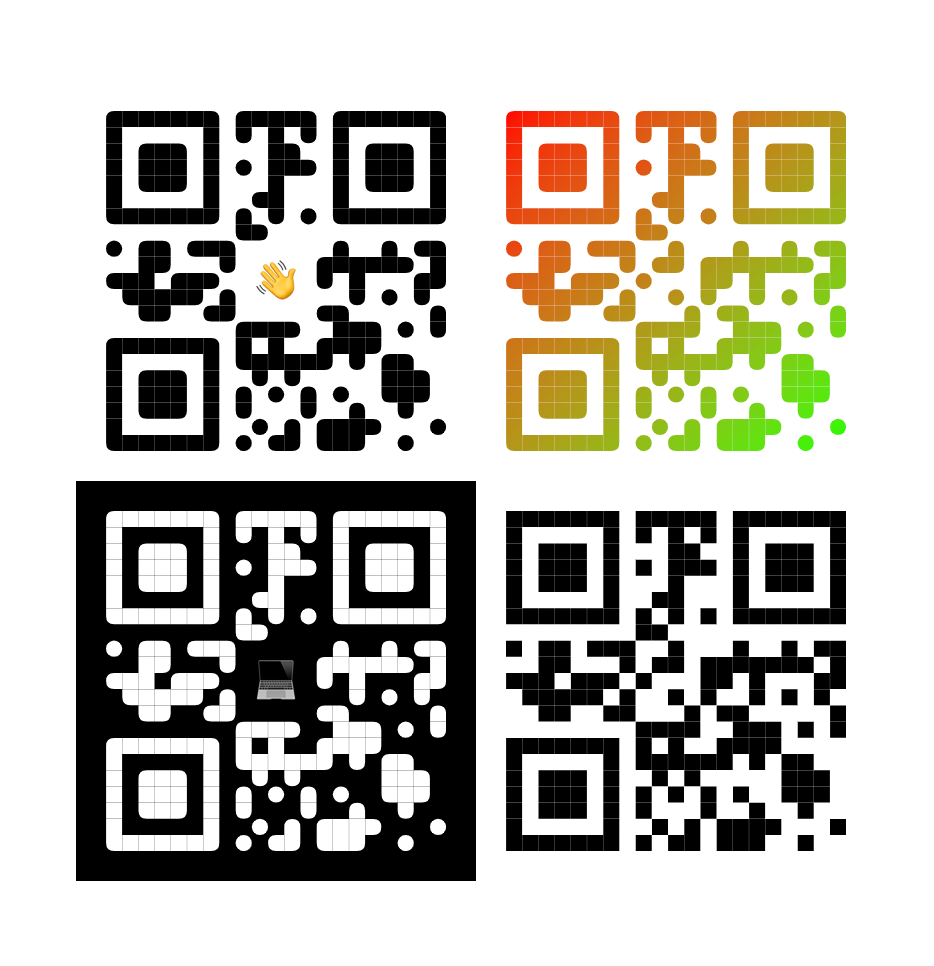
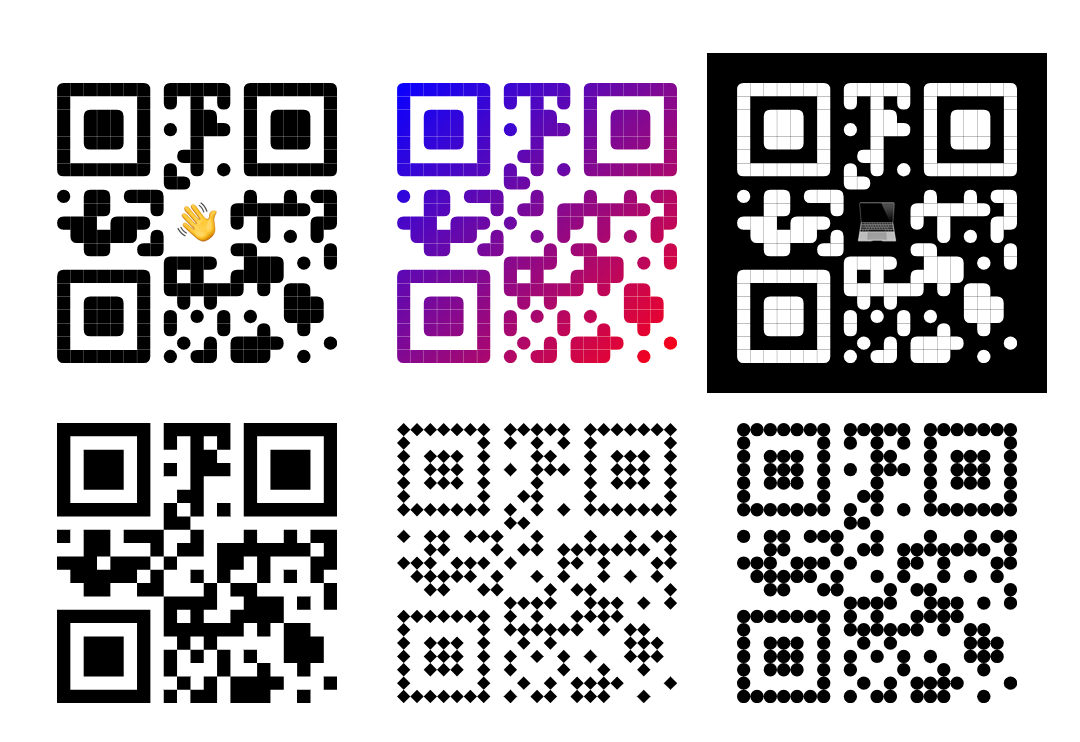
docs: update README.md

diff --git a/README.md b/README.md
@@ -47,11 +47,15 @@ This library allows for easy customization of QR codes, enabling developers to a
 
 Implement QR codes easily in your React Native app:
 
+[Full example use can find here.](./example/src/App.tsx)
 ```js
 import React from 'react';
 
 import { StyleSheet, View, Text } from 'react-native';
-import { QrCodeSvg, plainRenderer } from 'react-native-qr-svg';
+import {
+  QrCodeSvg,
+  plainRenderer,
+} from 'react-native-qr-svg';
 
 const SIZE = 170;
 const CONTENT = 'Hello world!';
@@ -60,48 +64,42 @@ export default function App() {
   return (
     <View style={styles.root}>
       <View style={styles.content}>
-        <View style={styles.qr}>
-          <QrCodeSvg
-            value={CONTENT}
-            frameSize={SIZE}
-            contentCells={5}
-            content={
-              <View>
-                <Text style={styles.icon}>👋</Text>
-              </View>
-            }
-            contentStyle={styles.box}
-          />
-        </View>
-        <View style={styles.qr}>
-          <QrCodeSvg
-            gradientColors={['#0800ff', '#ff0000']}
-            value={CONTENT}
-            frameSize={SIZE}
-          />
-        </View>
-        <View style={[styles.qr, styles.secondQr]}>
-          <QrCodeSvg
-            value={CONTENT}
-            frameSize={SIZE}
-            contentCells={5}
-            content={
-              <View>
-                <Text style={styles.icon}>💻</Text>
-              </View>
-            }
-            dotColor="#ffffff"
-            backgroundColor="#000000"
-            contentStyle={styles.box}
-          />
-        </View>
-        <View style={styles.qr}>
-          <QrCodeSvg
-            renderer={plainRenderer}
-            value={CONTENT}
-            frameSize={SIZE}
-          />
-        </View>
+        <QrCodeSvg
+          style={styles.qr}
+          value={CONTENT}
+          frameSize={SIZE}
+          contentCells={5}
+          content={<Text style={styles.icon}>👋</Text>}
+          contentStyle={styles.box}
+        />
+        <QrCodeSvg
+          style={styles.qr}
+          gradientColors={['#0800ff', '#ff0000']}
+          value={CONTENT}
+          frameSize={SIZE}
+        />
+        <QrCodeSvg
+          style={styles.qr}
+          value={CONTENT}
+          frameSize={SIZE}
+          contentCells={5}
+          content={<Text style={styles.icon}>💻</Text>}
+          dotColor="#ffffff"
+          backgroundColor="#000000"
+          contentStyle={styles.box}
+        />
+        <QrCodeSvg
+          style={styles.qr}
+          renderer={plainRenderer}
+          value={CONTENT}
+          frameSize={SIZE}
+        />
+        <QrCodeSvg
+          style={styles.qr}
+          renderer={customRenderer}
+          value={CONTENT}
+          frameSize={SIZE}
+        />
       </View>
     </View>
   );
@@ -129,13 +127,7 @@ const styles = StyleSheet.create({
   qr: {
     padding: 15,
   },
-  secondQr: {
-    backgroundColor: '#000000',
-  },
 });
-
-
-
 ```
 
 ## Contributing 🤝
